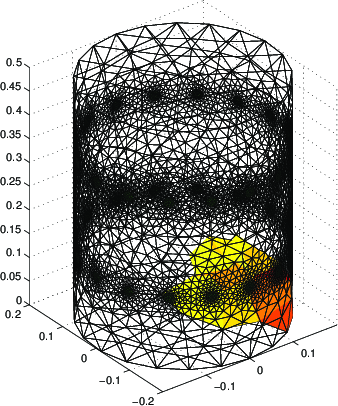
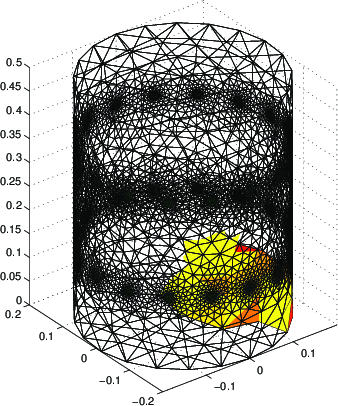
changes to use new functions
git-svn-id: svn+ssh://svn.code.sf.net/p/eidors3d/code/trunk@2693 82006732-fb7e-4a22-9f28-86a212cce563

Changed region(s): [[0.2071, 0.0591, 0.8876, 0.9163]]

diff --git a/htdocs/tutorial/dual_model/dual_3d3d.m b/htdocs/tutorial/dual_model/dual_3d3d.m
@@ -9,20 +9,8 @@ electrodes_per_plane = 16;
 number_of_planes = 2;
 tank_radius = 0.2;
 tank_height = 0.5;
-
-[fine_mdl,centres] = create_tank_mesh_ng( ...
-   tank_radius, ...   
-   tank_height, ...  
-   'C', ... % Rect_or_Circ_electrode
-   log2(electrodes_per_plane), ...  
-   number_of_planes, ...  
-   0.15, ... % first_plane_starts
-   0.2, ... % height_between_centres
-   0.01, ... % electrode_width
-   0.05, ... % electrode_height, ...
-   'tank', ... % fname, 
-   0 ... % elec_mesh_density  
-   );
+fine_mdl = ng_mk_cyl_models([tank_height,tank_radius],...
+    [electrodes_per_plane,0.15,0.35],[0.01]);
 
 % Determine stimulation paterns
 stim_pat = mk_stim_patterns(electrodes_per_plane, number_of_planes, ...
@@ -69,8 +57,7 @@ inhomg_data=fwd_solve( fine_mdl, inhomg_img);
 %% Create coarse model for inverse problem
 
 coarse_mdl_maxh = 0.07; % maximum element size 
-coarse_mdl = create_cylinder_mesh_ng('cylinder', tank_radius, ...
-                                     tank_height, coarse_mdl_maxh) ;
+coarse_mdl = ng_mk_cyl_models([tank_height,tank_radius,coarse_mdl_maxh],[0],[]);
 
 
 %% Create inverse model
